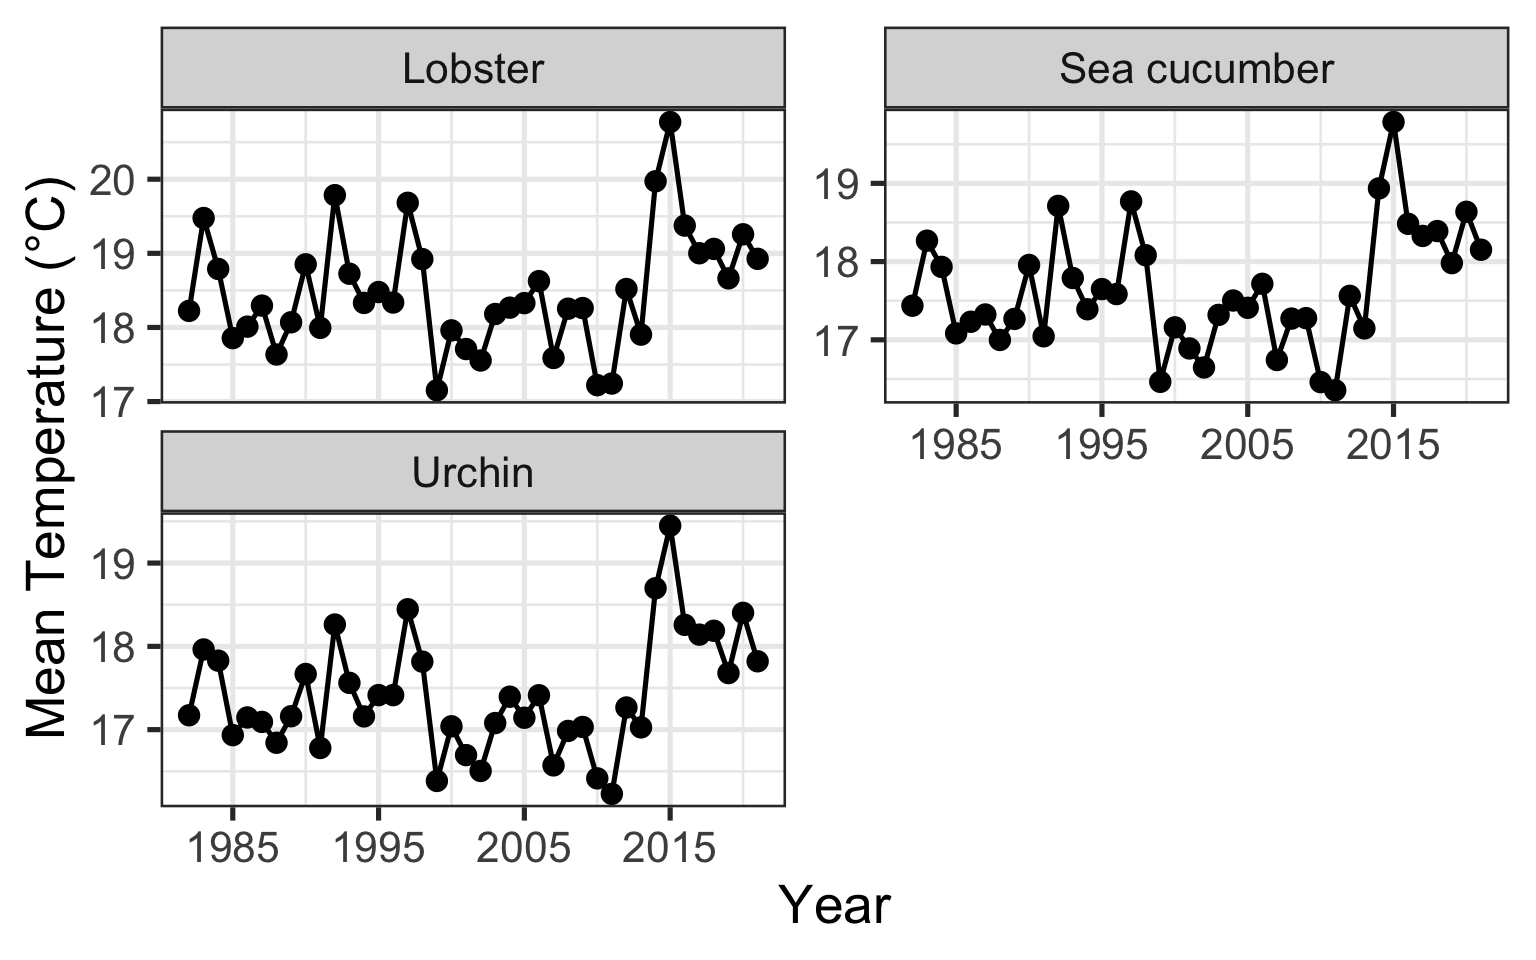
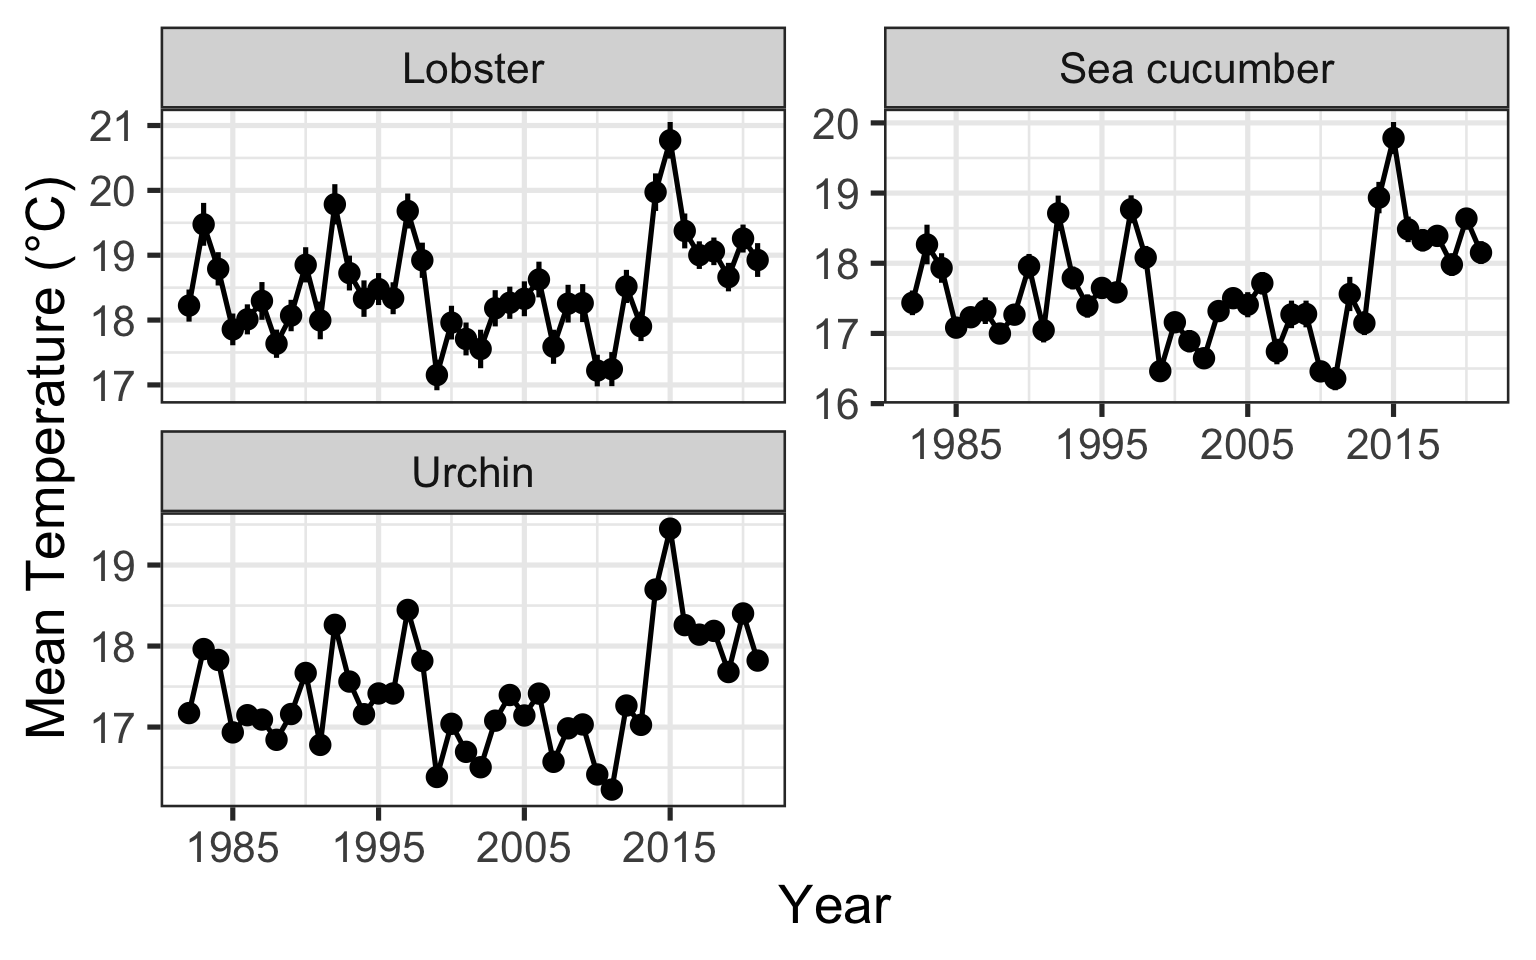
Updates

diff --git a/slides/08_scale_up_viz.html b/slides/08_scale_up_viz.html
@@ -785,13 +785,14 @@ Juan Carlos Villaseñor-Derbez (JC)
 <span id="cb21-2"><a href=""></a>       <span class="fu">aes</span>(<span class="at">x =</span> year,</span>
 <span id="cb21-3"><a href=""></a>           <span class="at">y =</span> temp_mean)) <span class="sc">+</span></span>
 <span id="cb21-4"><a href=""></a>  <span class="fu">stat_summary</span>(<span class="at">geom =</span> <span class="st">"point"</span>, <span class="at">fun =</span> <span class="st">"mean"</span>) <span class="sc">+</span></span>
-<span id="cb21-5"><a href=""></a>  <span class="fu">stat_summary</span>(<span class="at">geom =</span> <span class="st">"line"</span>, <span class="at">fun =</span> <span class="st">"mean"</span>) <span class="sc">+</span></span>
-<span id="cb21-6"><a href=""></a>  <span class="fu">scale_x_continuous</span>(<span class="at">breaks =</span> <span class="fu">seq</span>(<span class="dv">1985</span>, <span class="dv">2020</span>, <span class="at">by =</span> <span class="dv">10</span>)) <span class="sc">+</span></span>
-<span id="cb21-7"><a href=""></a>  <span class="fu">facet_wrap</span>(<span class="sc">~</span><span class="fu">str_to_sentence</span>(<span class="fu">str_replace</span>(fishery, <span class="st">"_"</span>, <span class="st">" "</span>)),</span>
-<span id="cb21-8"><a href=""></a>             <span class="at">ncol =</span> <span class="dv">2</span>,</span>
-<span id="cb21-9"><a href=""></a>             <span class="at">scales =</span> <span class="st">"free_y"</span>) <span class="sc">+</span></span>
-<span id="cb21-10"><a href=""></a>  <span class="fu">labs</span>(<span class="at">x =</span> <span class="st">"Year"</span>,</span>
-<span id="cb21-11"><a href=""></a>       <span class="at">y =</span> <span class="st">"Mean Temperature (°C)"</span>)</span></code></pre></div><button title="Copy to Clipboard" class="code-copy-button"><i class="bi"></i></button></div>
+<span id="cb21-5"><a href=""></a>  <span class="fu">stat_summary</span>(<span class="at">geom =</span> <span class="st">"linerange"</span>, <span class="at">fun.data =</span> <span class="st">"mean_se"</span>) <span class="sc">+</span></span>
+<span id="cb21-6"><a href=""></a>  <span class="fu">stat_summary</span>(<span class="at">geom =</span> <span class="st">"line"</span>, <span class="at">fun =</span> <span class="st">"mean"</span>) <span class="sc">+</span></span>
+<span id="cb21-7"><a href=""></a>  <span class="fu">scale_x_continuous</span>(<span class="at">breaks =</span> <span class="fu">seq</span>(<span class="dv">1985</span>, <span class="dv">2020</span>, <span class="at">by =</span> <span class="dv">10</span>)) <span class="sc">+</span></span>
+<span id="cb21-8"><a href=""></a>  <span class="fu">facet_wrap</span>(<span class="sc">~</span><span class="fu">str_to_sentence</span>(<span class="fu">str_replace</span>(fishery, <span class="st">"_"</span>, <span class="st">" "</span>)),</span>
+<span id="cb21-9"><a href=""></a>             <span class="at">ncol =</span> <span class="dv">2</span>,</span>
+<span id="cb21-10"><a href=""></a>             <span class="at">scales =</span> <span class="st">"free_y"</span>) <span class="sc">+</span></span>
+<span id="cb21-11"><a href=""></a>  <span class="fu">labs</span>(<span class="at">x =</span> <span class="st">"Year"</span>,</span>
+<span id="cb21-12"><a href=""></a>       <span class="at">y =</span> <span class="st">"Mean Temperature (°C)"</span>)</span></code></pre></div><button title="Copy to Clipboard" class="code-copy-button"><i class="bi"></i></button></div>
 </details>
 <div class="cell-output-display">
 <div>
